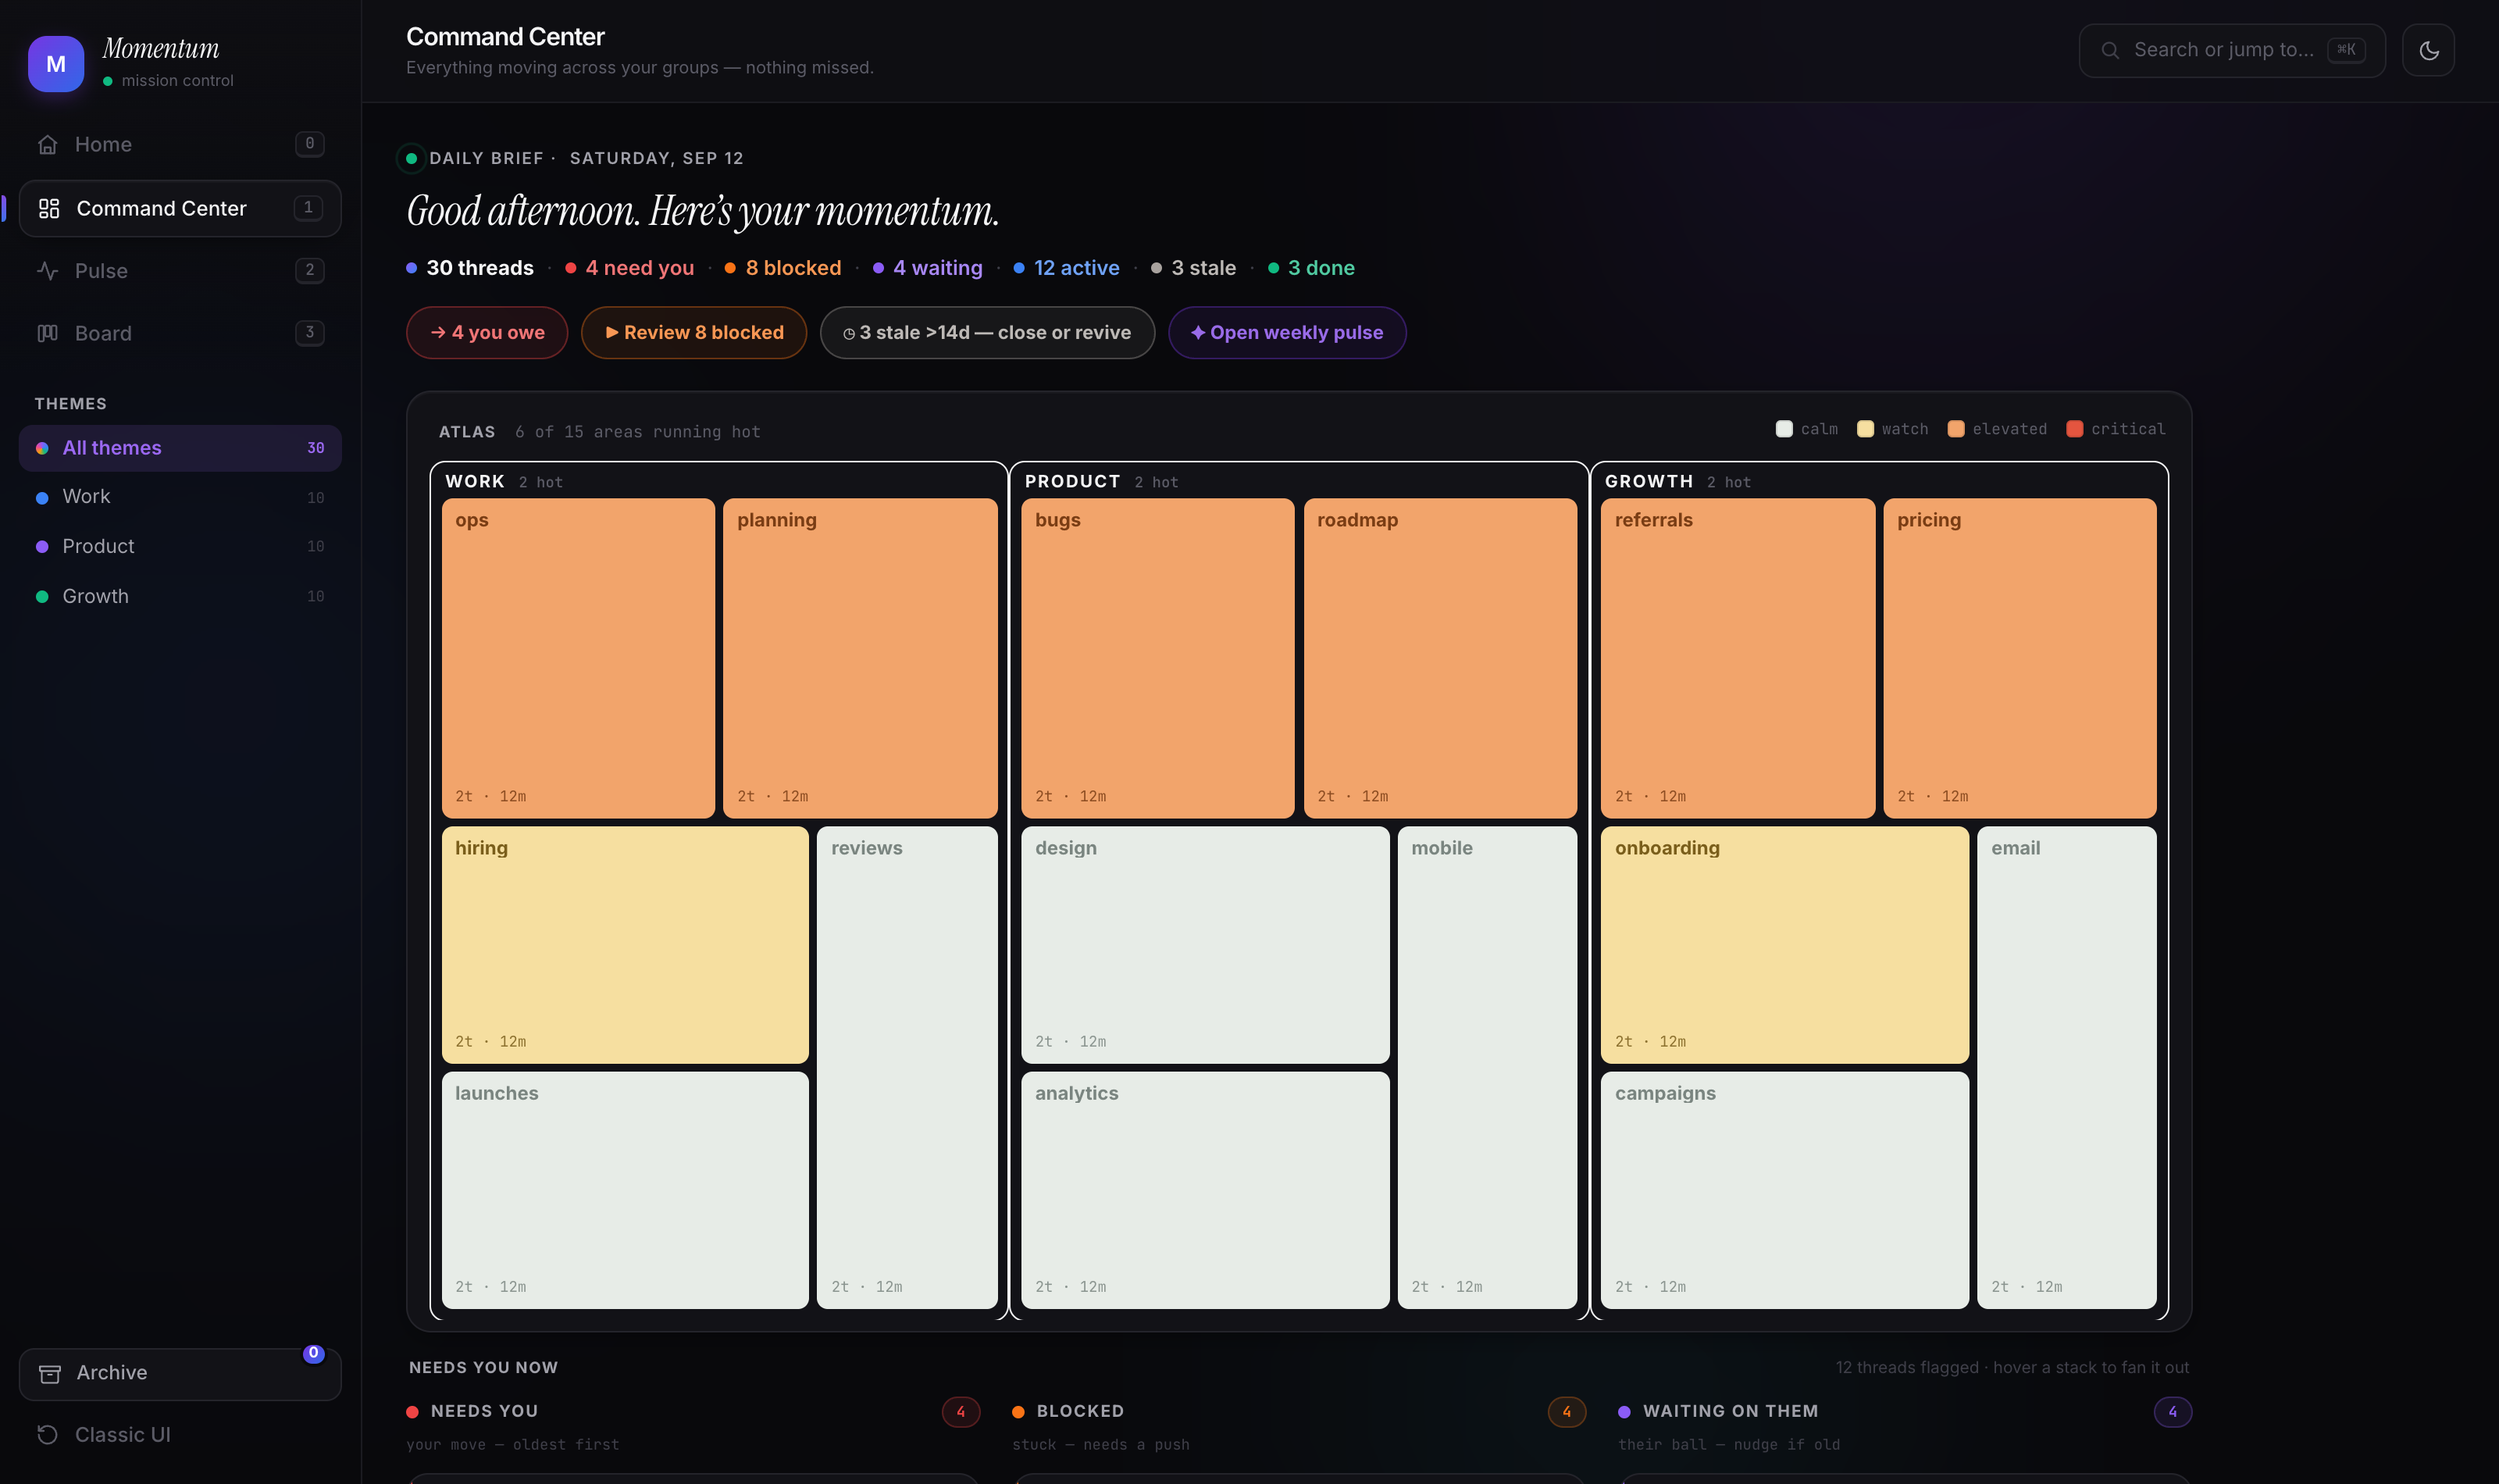
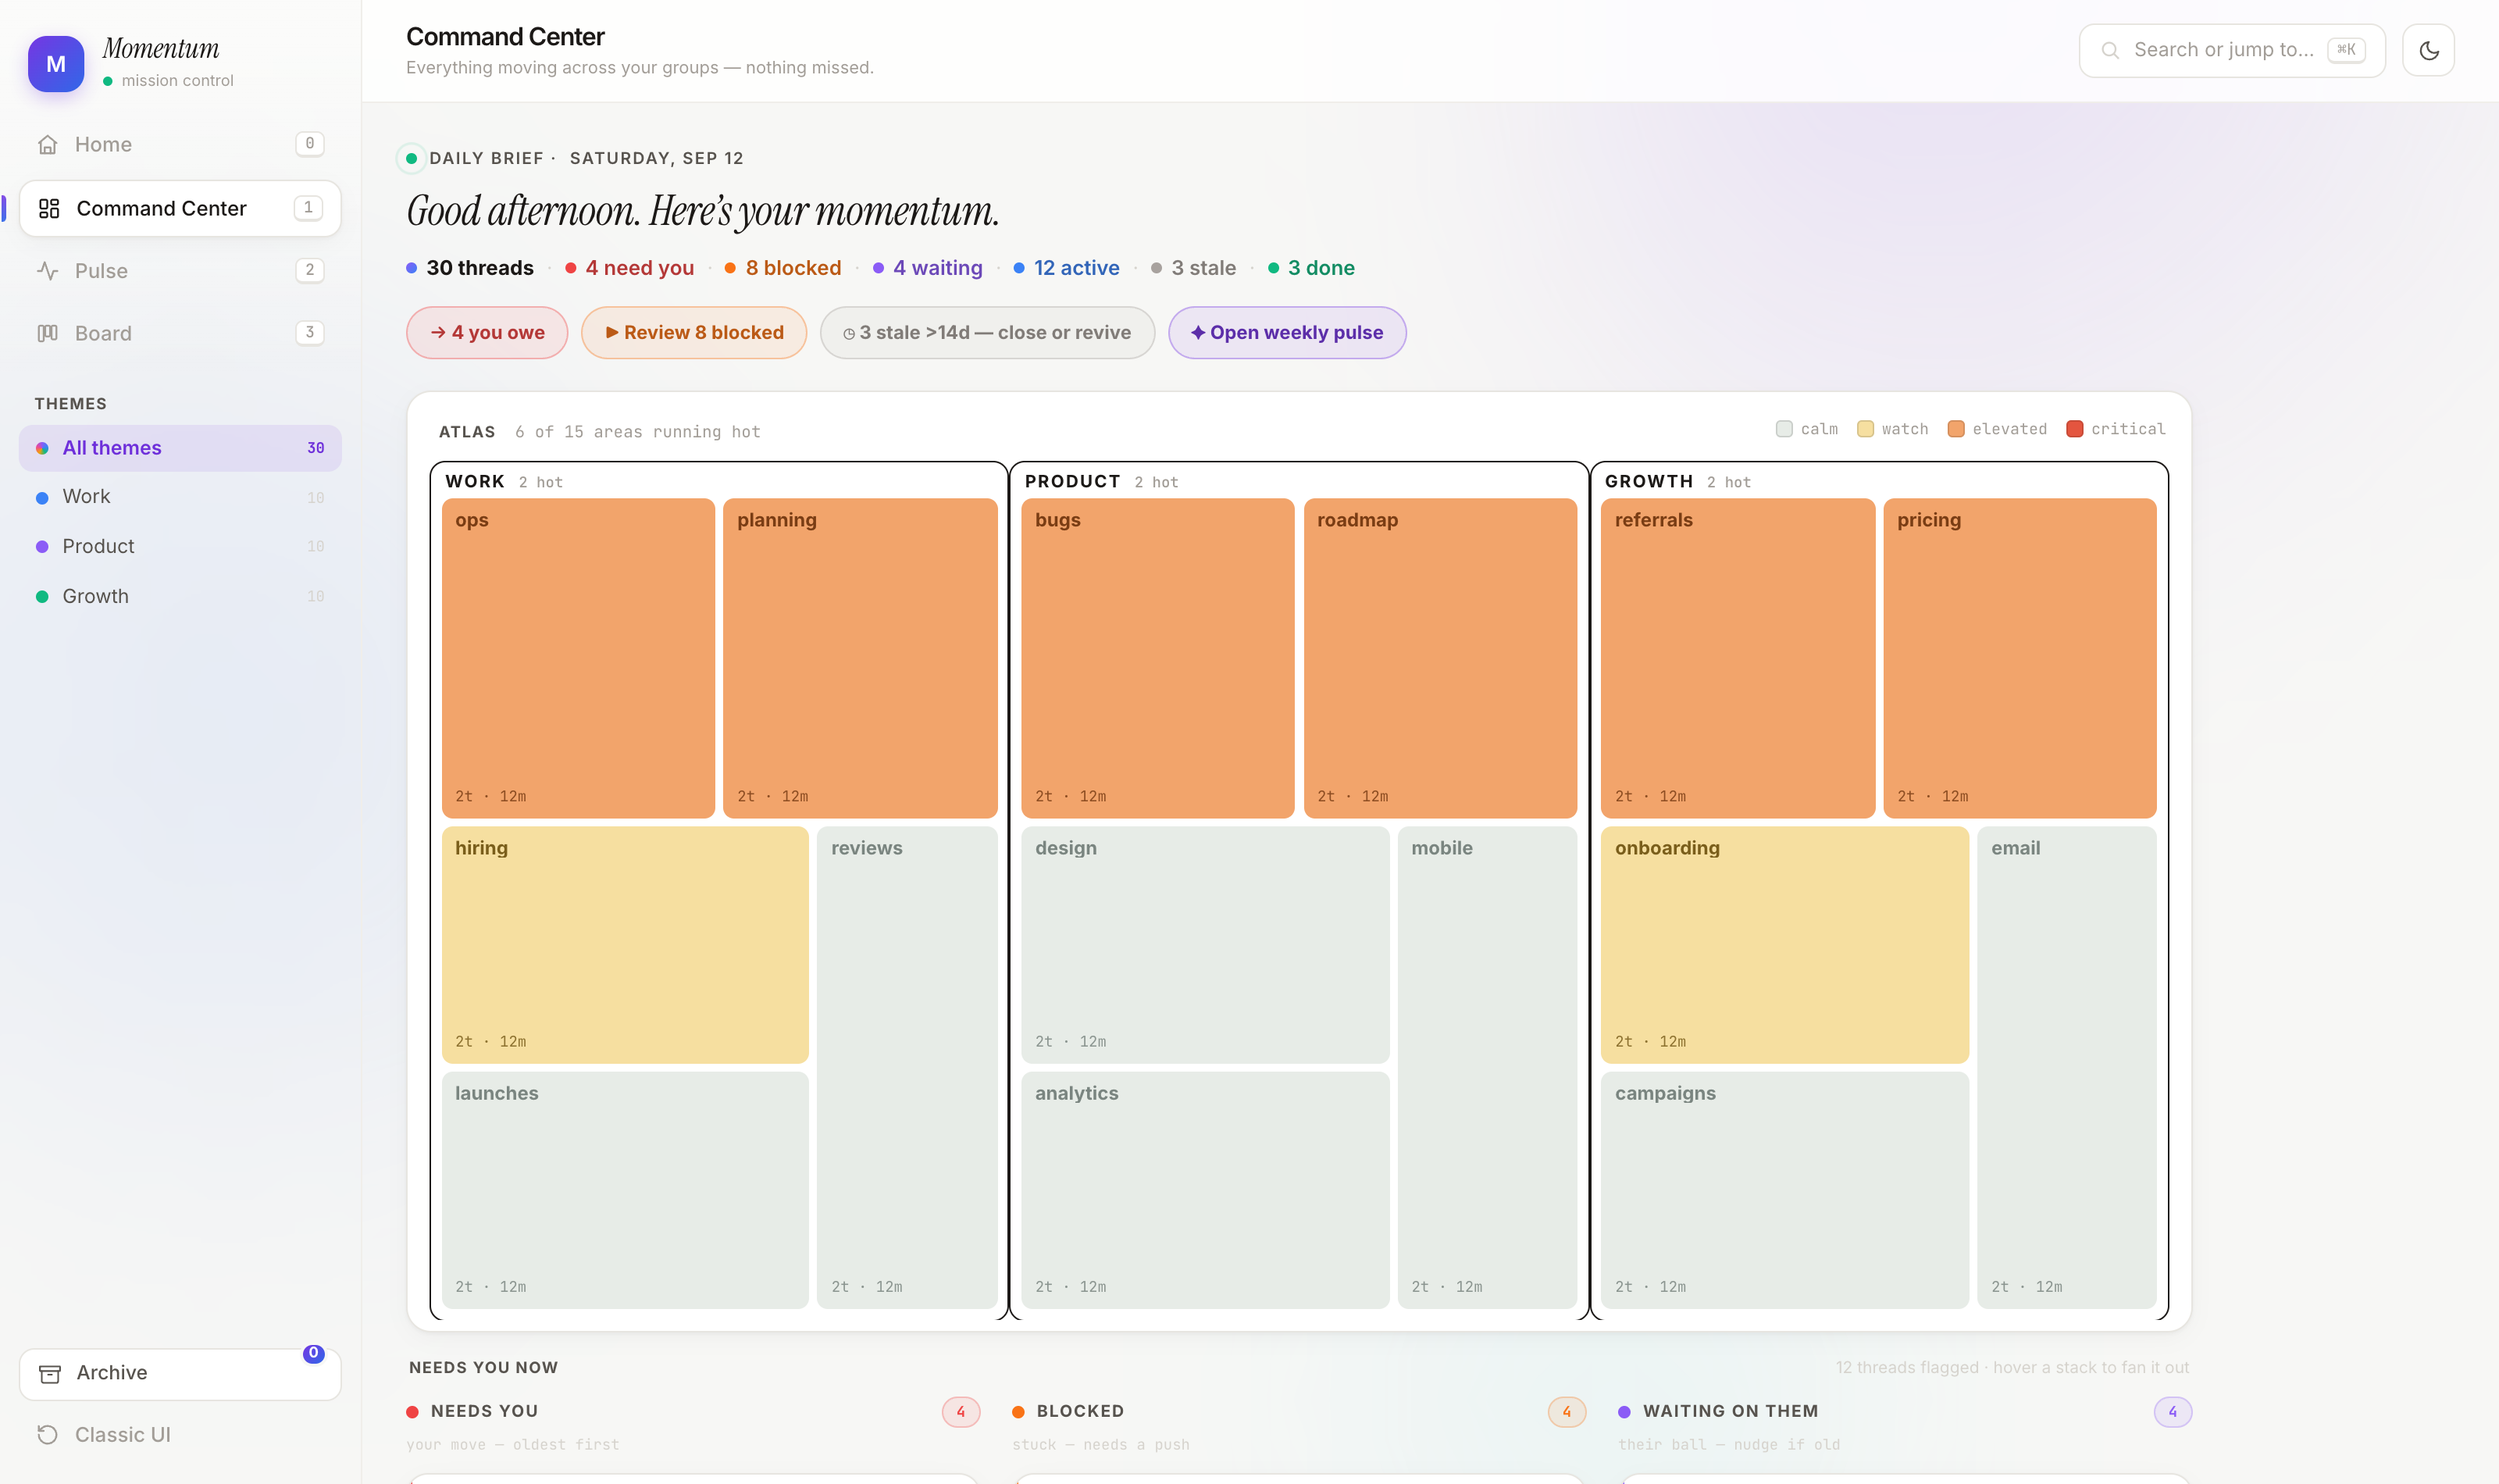
Showcase: all-light screenshots, drop board shot, live interactive arch map

diff --git a/README.md b/README.md
@@ -33,15 +33,15 @@ no noise.
 
 ### Board — keep statuses honest
 Drag threads between Blocked / In Progress / Completed. Overrides persist;
-reset anytime.
-
-![Board](assets/board.png)
+reset anytime. (Plus the full Command Center thread list with search, filters,
+and AI reply drafts you can send back to any group.)
 
 ## Architecture
 
 Built with [Archify](https://github.com/tt-a1i/archify) from the actual repo —
-open [`docs/architecture.html`](docs/architecture.html) for the interactive map
-(search, guided stories, dark/light).
+explore it live: **[interactive architecture map](https://sameer-hoda.github.io/momentum/architecture.html)**
+(search, guided stories, dark/light, export). A copy also lives in
+[`docs/architecture.html`](docs/architecture.html).
 
 ![Architecture](assets/architecture.png)
 
